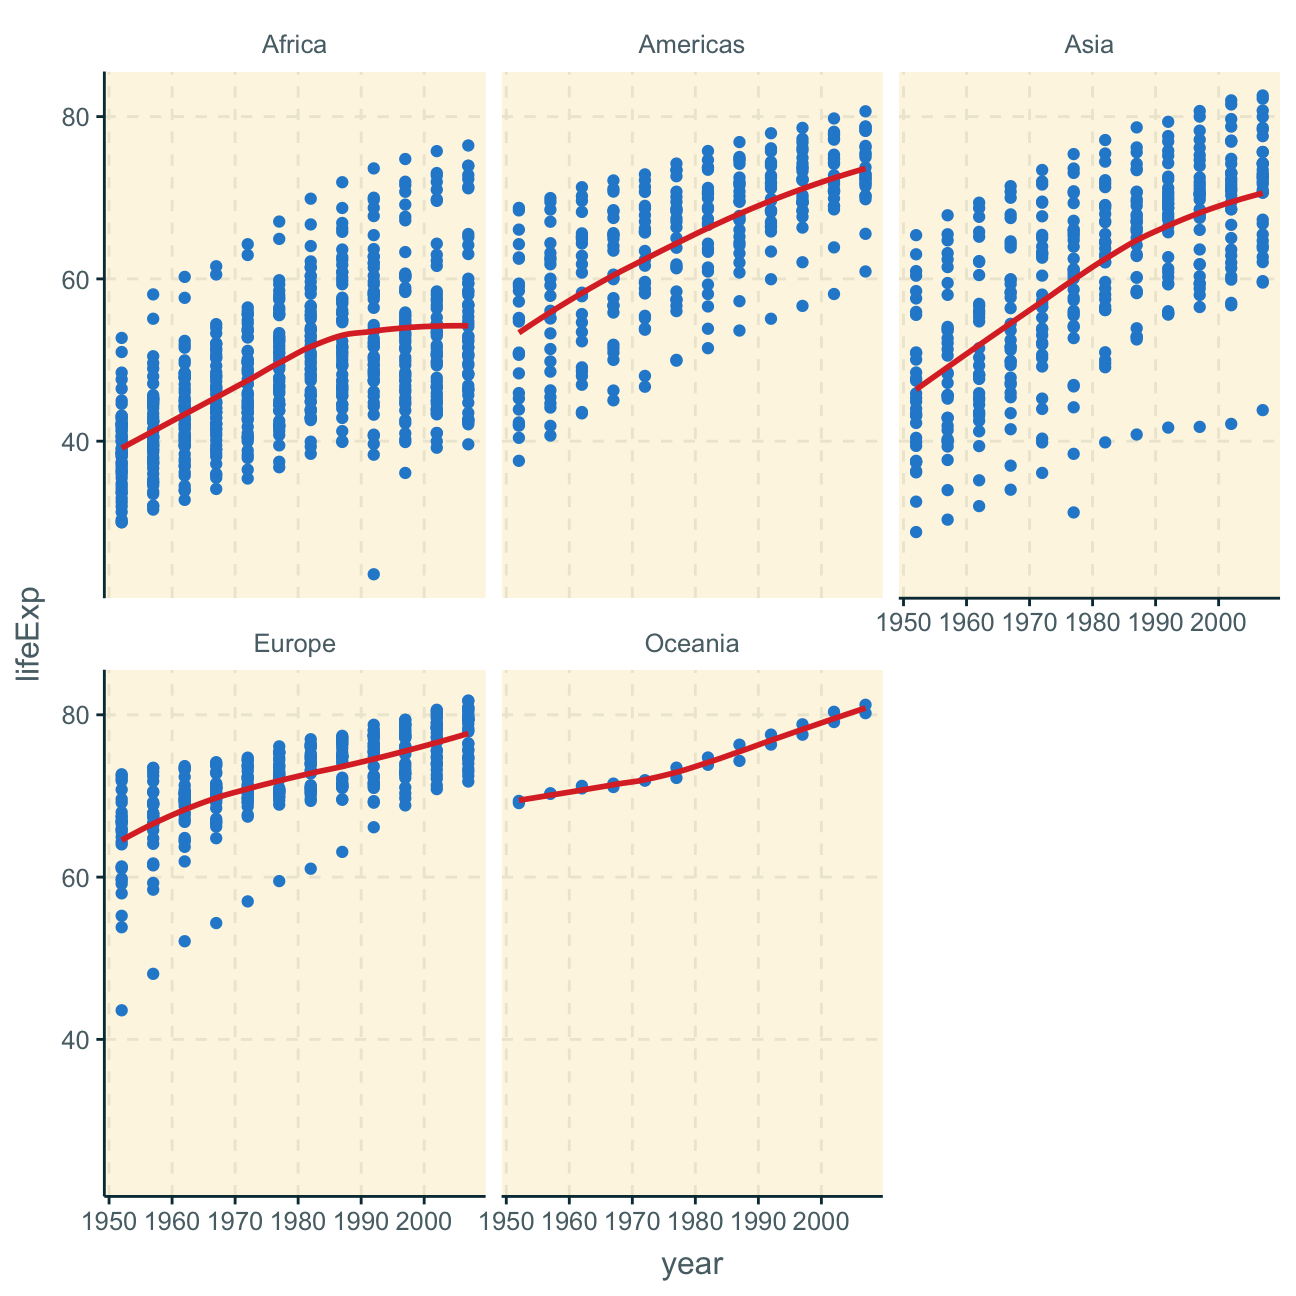
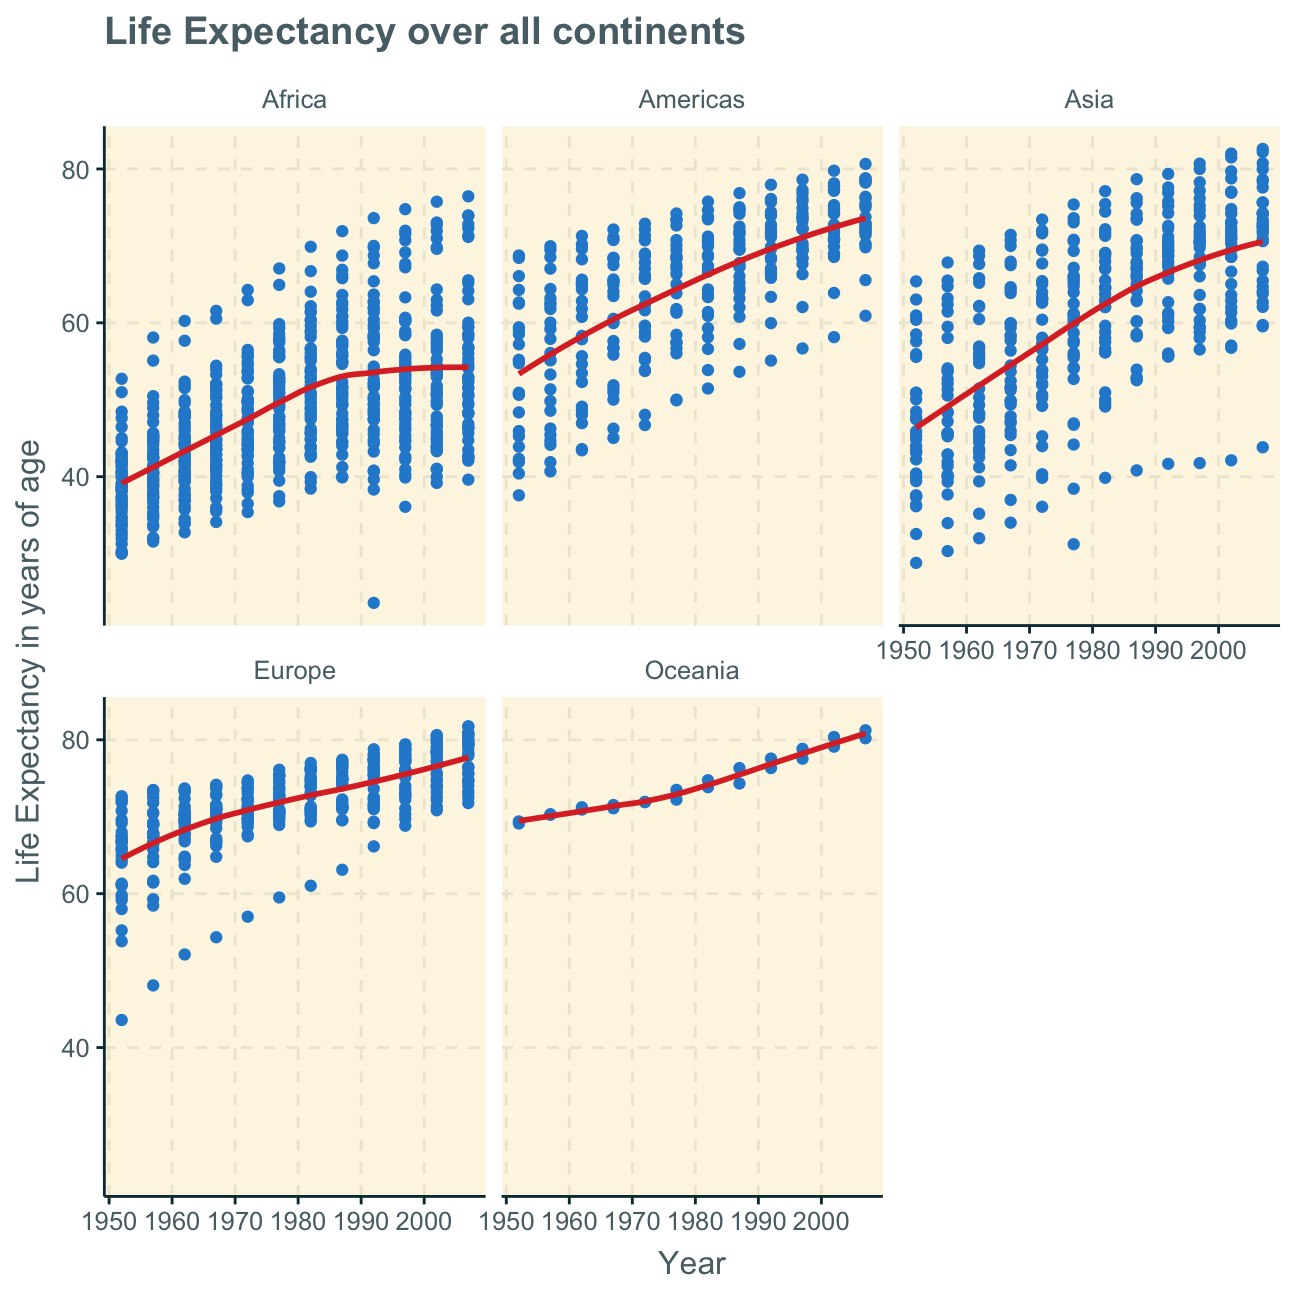
trying to change project 3 template

diff --git a/content/projects/project3/index.html b/content/projects/project3/index.html
@@ -4,8 +4,8 @@ author: "Marie Cordes"
 date: "September 2020"
 output:
   html_document:
-    theme: flatly
-    highlight: zenburn
+    theme: material
+    highlight: kate
     number_sections: yes
     toc: yes
     toc_float: yes
@@ -97,6 +97,9 @@ labs(title = &quot;Life Expectancy in Europe per country (1957-2007)&quot;,
    geom_smooth(se = FALSE) +
    facet_wrap(~continent) +
    theme(legend.position=&quot;none&quot;) +
+  labs(title = &quot;Life Expectancy over all continents&quot;,
+         x = &quot;Year&quot;,
+         y = &quot;Life Expectancy in years of age&quot;) + 
    NULL</code></pre>
 <p><img src="/projects/project3/index_files/figure-html/lifeExp_facet_by_continent-1.png" width="648" style="display: block; margin: auto;" /></p>
 <div id="analysis-interpretation" class="section level2">

diff --git a/public/projects/project3/index.html b/public/projects/project3/index.html
@@ -162,6 +162,9 @@ labs(title = &quot;Life Expectancy in Europe per country (1957-2007)&quot;,
    geom_smooth(se = FALSE) +
    facet_wrap(~continent) +
    theme(legend.position=&quot;none&quot;) +
+  labs(title = &quot;Life Expectancy over all continents&quot;,
+         x = &quot;Year&quot;,
+         y = &quot;Life Expectancy in years of age&quot;) + 
    NULL</code></pre>
 <p><img src="/projects/project3/index_files/figure-html/lifeExp_facet_by_continent-1.png" width="648" style="display: block; margin: auto;" /></p>
 <div id="analysis-interpretation" class="section level2">
